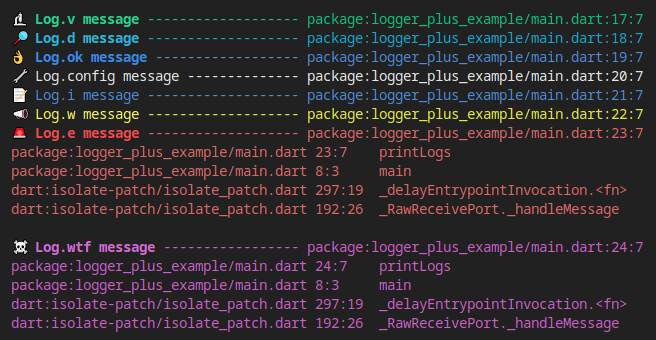
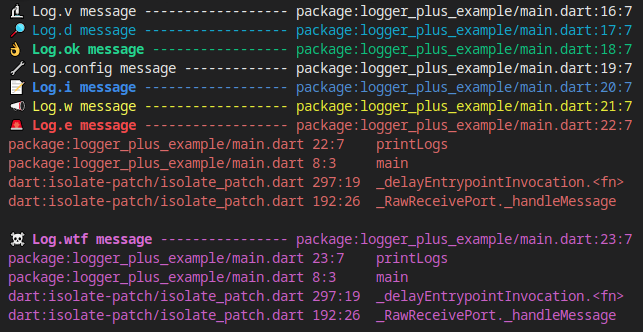
Change level colors
- update readme and demo

diff --git a/logger_plus/lib/src/utils/level.dart b/logger_plus/lib/src/utils/level.dart
@@ -17,11 +17,11 @@ extension LevelExt on Level {
   }
 
   ConsoleColor get color {
-    if (this == Level.FINEST) return ConsoleColor.green().highlighted.bold;
-    if (this == Level.FINER) return ConsoleColor.cyan().highlighted.bold;
-    if (this == Level.FINE) return ConsoleColor.blue().bold;
-    if (this == Level.CONFIG) return ConsoleColor.gray();
-    if (this == Level.INFO) return ConsoleColor.blue();
+    if (this == Level.FINEST) return ConsoleColor.gray();
+    if (this == Level.FINER) return ConsoleColor.cyan();
+    if (this == Level.FINE) return ConsoleColor.green().highlighted.bold;
+    if (this == Level.CONFIG) return ConsoleColor.gray().highlighted;
+    if (this == Level.INFO) return ConsoleColor.blue().bold;
     if (this == Level.WARNING) return ConsoleColor.yellow().highlighted;
     if (this == Level.SEVERE) return ConsoleColor.red().highlighted.bold;
     if (this == Level.SHOUT) return ConsoleColor.magenta().highlighted.bold;

diff --git a/logger_plus/README.md b/logger_plus/README.md
@@ -8,7 +8,7 @@ A little bit based on [Timber](https://github.com/JakeWharton/timber) library.
 
 - show logs friendly using tags with call location, colors and emoji;
 - open to implement your custom log output;
-- written on top of [logging](https://pu) library.
+- written on top of [logging](https://pub.dev/packages/logging) library.
 
 ## Getting started
 
@@ -24,12 +24,39 @@ flutter pub add logger_plus --git-url=https://github.com/pedrox-hs/flutter_packa
 // Import the package
 import 'package:logger_plus/logger_plus.dart';
 
-// In the main file or entrypoint add a recorder
-Log.listen(ConsoleLogRecorder());
+void main() {
+  // In the main file or entrypoint add a recorder just once
+  Log.listen(ConsoleLogRecorder());
 
-// Now, you can start using
-Log.d('debug message');
+  // Now, you can start using
+  Log.i('info message');
+}
 ```
+
+You can also integrate with logging library:
+
+```dart
+import 'package:logger_plus/logger_plus.dart';
+import 'package:logging/logging.dart';
+
+void main() {
+  // Change the logging level
+  Logger.root.level = Level.ALL; // defaults to Level.INFO
+  // Add a recorder
+  Logger.root.onRecord.listen(DebugLogRecorder());
+
+  // Now, you can start using
+  Log.i('info message');
+
+  // Or use the logging library
+  final logger = Logger('my_logger');
+  logger.info('info message');
+}
+```
+All other packages that use logging will also be handled by `DebugLogRecorder`.
+
+For more details, see the [example](example) project and the logging library [documentation](https://pub.dev/packages/logging).
+
 
 ### `LogRecorder`
 
@@ -44,12 +71,12 @@ Output:
 
 <img src="demo/simple.png?raw=true&v=1" alt="messages preview" width="600"/>
 
-**ConsoleLogRecorder**
+**DebugLogRecorder**
 
 ```dart
 Log.listen(DebugLogRecorder());
 ```
 Output:
 
-<img src="demo/colored.png?raw=true&v=1" alt="messages preview" width="600"/>
+<img src="demo/colored.png?raw=true&v=2" alt="messages preview" width="600"/>
 
